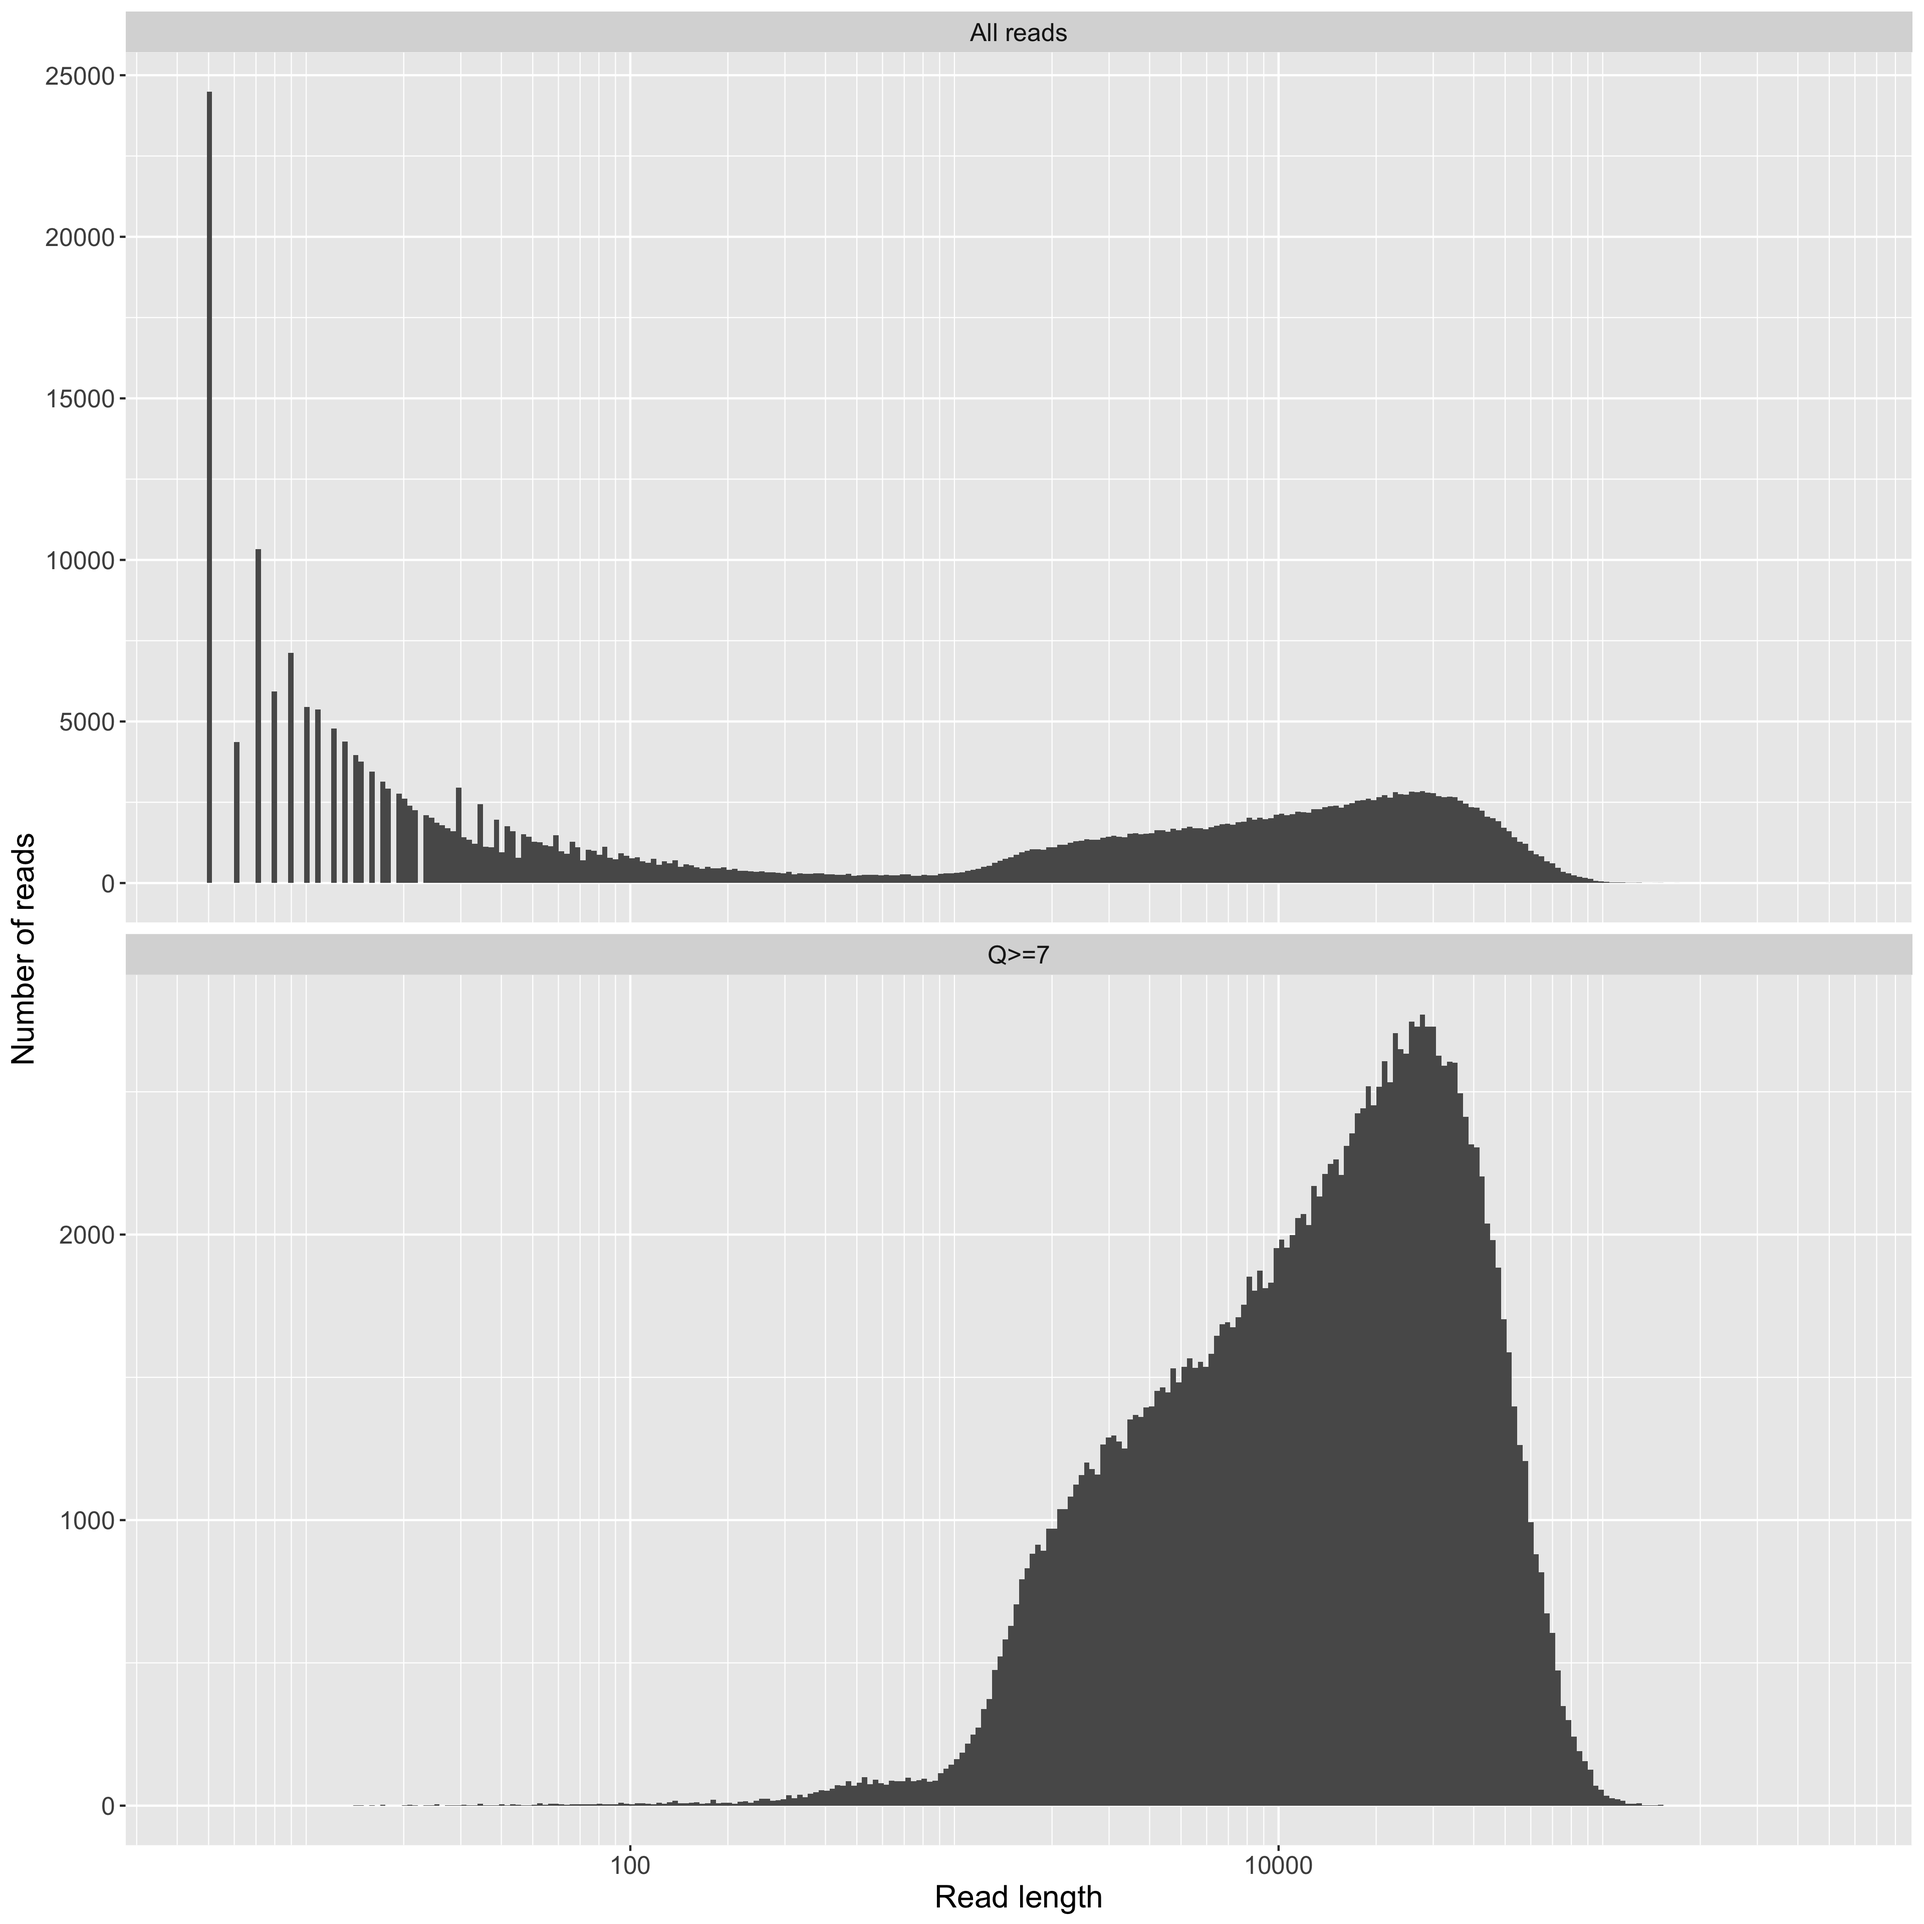
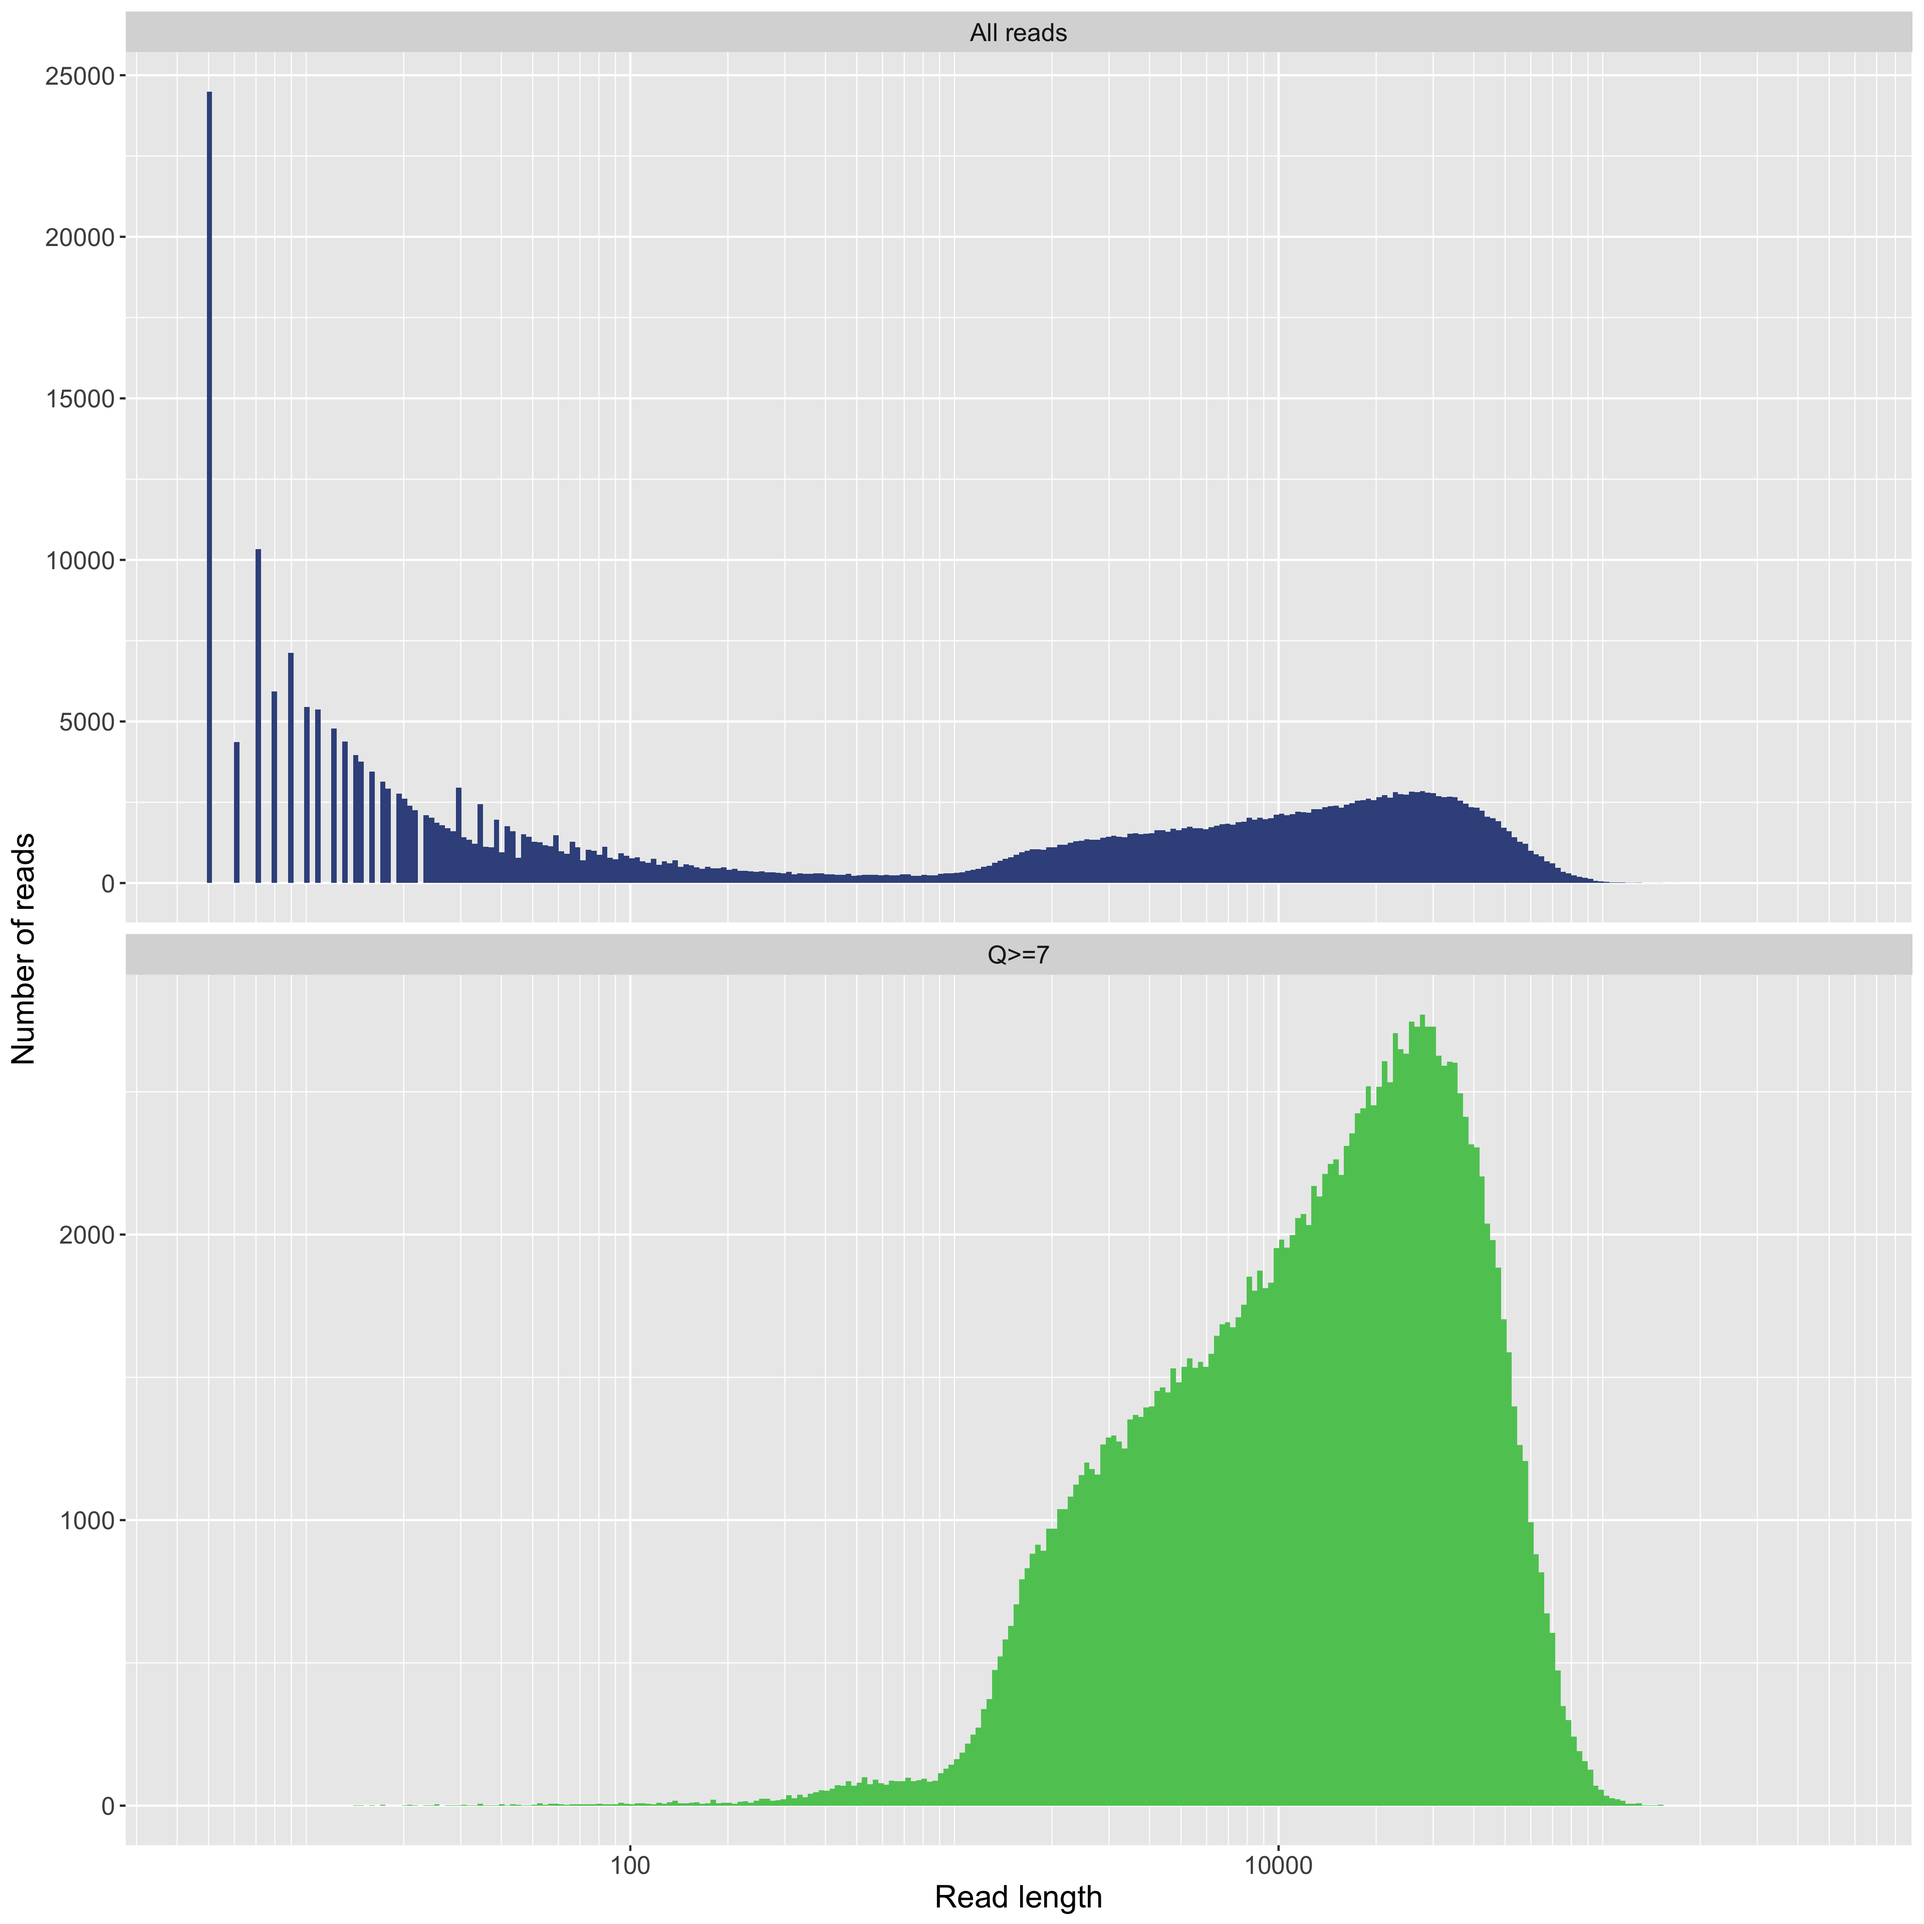
Update plots and readme
Fixed a number of small issues with the plots.

The most important change is the dual colour scheme. Green is always
good Q score, and blue is always bad.

Changed region(s): [[0.4062, 0.5312, 0.8438, 0.9375], [0.0938, 0.3125, 0.8125, 0.4688]]

diff --git a/README.md b/README.md
@@ -6,11 +6,11 @@ An R script for quality control of data from Oxford Nanopore's MinION sequencer,
 
 ## Why?
 
-Other tools focus on getting data out of the fastq or fast5 files, which is slow and computationally intensive. The benefit of this approach is that it works on a single, small, .txt summary file. So it's a lot quicker than most other things out there: it takes about a minute to analyse a 4GB flowcell on my laptop. 
+Other tools focus on getting data out of the fastq or fast5 files, which is slow and computationally intensive. The benefit of this approach is that it works on a single, small, .txt summary file. So it's a lot quicker than most other things out there: it takes about a minute to analyse a 4GB flowcell using a single processor on my laptop.
 
 ## Quick start
 
-The input for the script is one or more `sequencing_summary.txt` files produced by Albacore1.x or 2.x. 
+The input for the script is one or more `sequencing_summary.txt` files produced by Albacore1.x or 2.x, based on data from a minION run. 
 
 To run it on one `sequencing_summary.txt` file:
 
@@ -20,16 +20,17 @@ Rscript MinionQC.R -i sequencing_summary.txt -o output_directory
 
 To run it on a directory with multiple `sequencing_summary.txt` files:
 
-```
+```shell
 Rscript MinionQC.R -i parent_directory -o output_directory
 ```
 
 
-**MinionQC.R**: path to this script
-**sequencing_summary.txt**: path to a `sequencing_summary.txt` file from Albacore
-**output_directory**: path to an output directory. Files will be overwritten.
-**parent_directory**: path to an input directory that contains one or more `sequencing_summary.txt` files in subfolders
+* **MinionQC.R**: path to this script
+* **sequencing_summary.txt**: path to a `sequencing_summary.txt` file from Albacore
+* **parent_directory**: path to an input directory that contains one or more `sequencing_summary.txt` files in subfolders
+* **output_directory**: path to an output directory. Files will be overwritten.
 
+You'll see a series of plots in the output directory, and a YAML file that describes your output.
 
 ## Options
 
@@ -57,11 +58,15 @@ Options:
 
 The point of this script is that it requires no interaction and no installation of any meaningful kind. 
 
-#### I just want the script
+**I just want the script**
 
-Use `curl` or `wget` to get just the script (which is all you need)
+The script is all you need, as long as you'r not interested in the example files.
 
-```
+You can just download or copy/paste the raw R script from here: https://raw.githubusercontent.com/roblanf/minion_qc/master/MinionQC.R
+
+Or you can use `curl` or `wget` to get it
+
+```shell
 # this
 curl https://raw.githubusercontent.com/roblanf/minion_qc/master/MinionQC.R > MinionQC.R
 
@@ -69,9 +74,9 @@ curl https://raw.githubusercontent.com/roblanf/minion_qc/master/MinionQC.R > Min
 wget https://raw.githubusercontent.com/roblanf/minion_qc/master/MinionQC.R > MinionQC.R
 ```
 
-#### I want the example input and output too
+**I want the example input and output too**
 
-This comes as a file that is ~100MB. Download the `.zip` or `.tar.gz` file from here: https://github.com/roblanf/minion_qc/releases/latest/
+Download the `.zip` or `.tar.gz` file from here: https://github.com/roblanf/minion_qc/releases/latest/
 
 If you want to run the example input, one option is to change directories to the file containing the `MinonQC.R` script and type:
 
@@ -79,10 +84,11 @@ If you want to run the example input, one option is to change directories to the
 Rscript MinionQC.R -i example_input -o my_example_output -p 2
 ```
 
-## Dependencies
-A recent version of R, and install the following:
+#### Dependencies
 
-```
+To run the script, you will need a recent version of R, and the following packages. To install the right packages, just start up R and copy/paste the code below.
+
+```R
 install.packages("data.table")
 install.packages("futile.logger")
 install.packages("ggplot2")
@@ -100,14 +106,17 @@ install.packages("yaml")
 The following output was created by running the script on the example input files, which contains data from two flowcells from our lab.
 
 ```
-Rscript MinionQC.R -i example_input -o example_output/RB7_A2/minionQC
+Rscript MinionQC.R -i example_input -o example_output
 ```
 
-Two kinds of output are produced. Output for each flowcell, and then additional output for the combined flowcells to allow for comparison.
+Two kinds of output are produced. Output for each flowcell, and then additional output for the combined flowcells to allow for comparison. The script will produce 10 files to describe each flowcell, and 9 files to describe all flowcells combined (if you have analysed more than one flowcell). I explain each of these files below, with examples from the `example_output/RB7_A2/minionQC/` folder for a single flowcell, and examples from the `example_output/combinedQC/` folder for multiple flowcells. 
 
-### Output for each flowcell
+There are two colour schemes used in the plots:
 
-The script will produce 10 files for each flowcell. Here I explain each of these, with examples from the `example_output/RB7_A2/minionQC/` folder. 
+* **Q Scores**: Green is a high Q score, and blue is a low Q score. These are either represented as a categorical variable where blue is all of your reads and green is the reads above your Q score cutoff (the default is Q>=7), or as a continuous variable that runs from blue (bad Q score) to green (good Q score). 
+* **Flowcells**: on plots that show data from more than one flowcell, each flowcell is represented by a unique colour.
+
+## Output for a single flowcell
 
 #### summary.yaml
 
